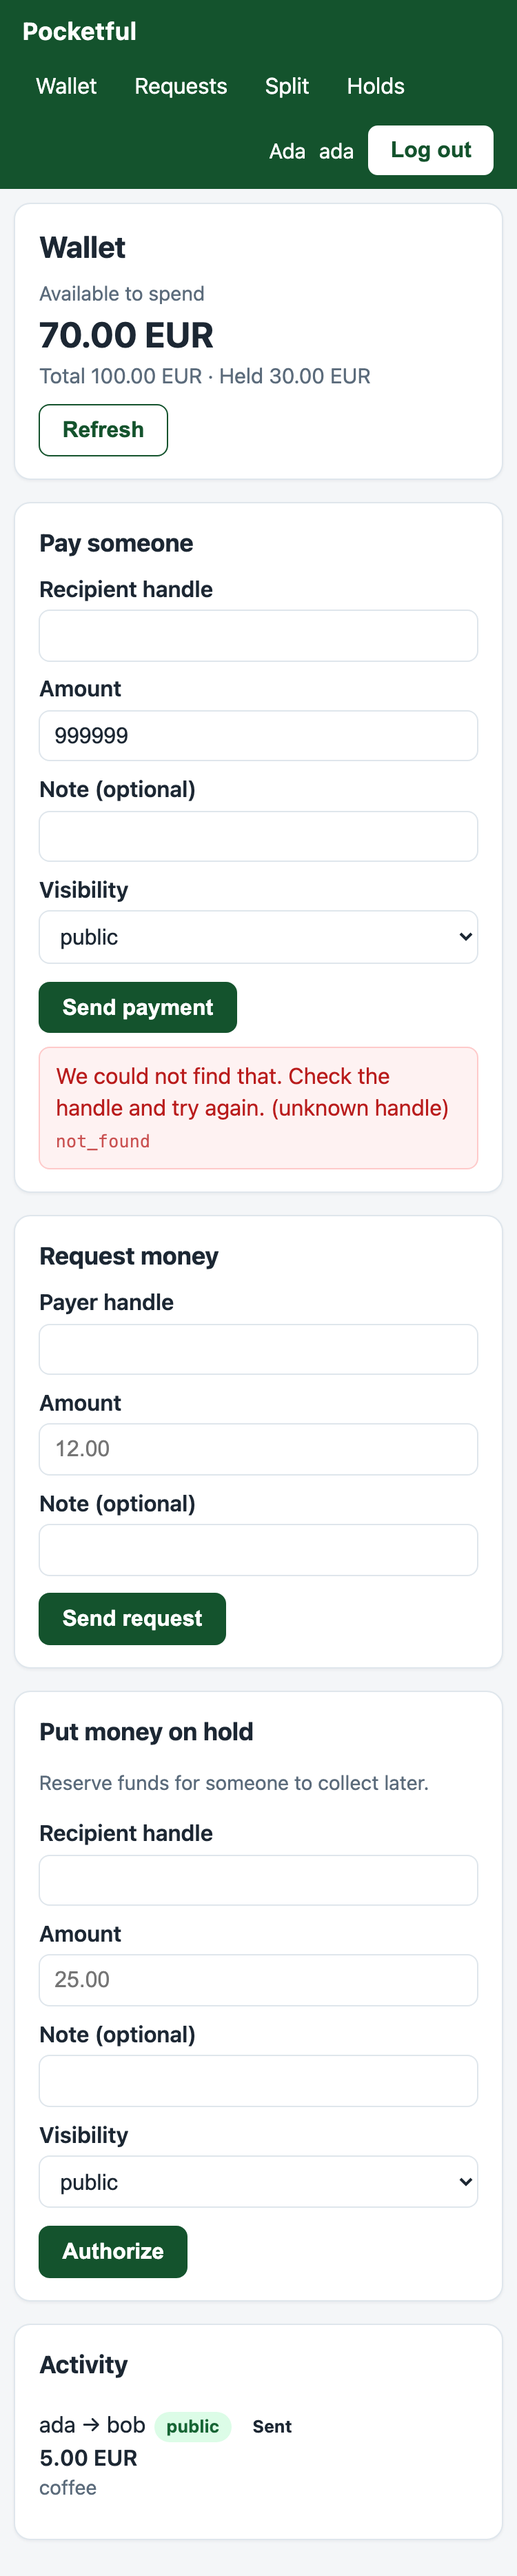
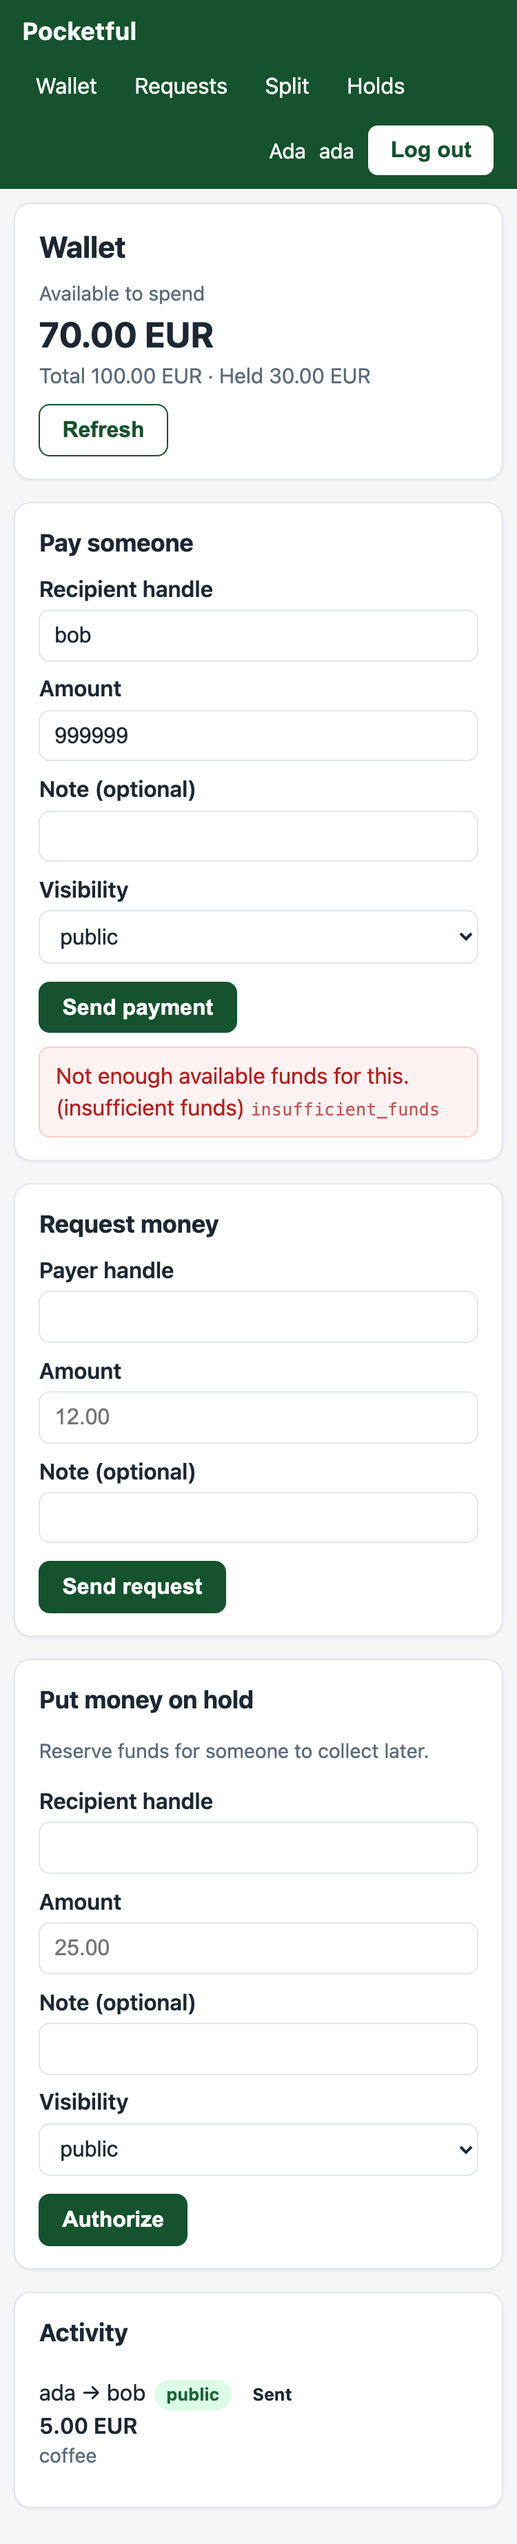
pocketful-factory: the screenshots were asserting things they did not show
Fifteen distinct pictures now, every one referenced by name from the README, and
three of them backed by an assertion rather than by somebody's word.

Two were lying. `refused` filled the amount and left the handle empty, so the
server refused the handle lookup: the file claimed a refused payment while showing
not_found, and the "the balance did not move" reading passed without anything having
been attempted. It now sends a real handle for more than Ada has, reads the balance
from the server on both sides, and fails if it moved -- so that picture is what its
name says. The handle case it was actually showing is kept, as unknown-handle,
because it is the evidence for the error-banner fix FACTORY.md cites.

`requests-after-decline` reloaded the page, discarded the state it was named for,
and came out byte-identical to the plain requests screenshot. The invariant it was
reaching for is real and checkable: the UI derives its idempotency key from the
request body, so the same payment submitted twice must move the money once. That is
now `replayed`, asserting the balance moved exactly 777 minor units and the feed
holds exactly one entry.

Re-seeding per width, because a fresh context derives a fresh key and the second
width was shooting a server the first had already moved -- the assertion caught it
on the first run.

The submit checklist's three falsified items are corrected: the export is checked
[…]

diff --git a/tools/shoot_ui.py b/tools/shoot_ui.py
@@ -160,19 +160,33 @@ def main(argv=None) -> int:
         return 2
 
     print(f"seeding the published fixture on {base}")
-    call(base, "POST", "/_test/reset", FIXTURE)
-    ada, bob = login(base, "ada@example.com"), login(base, "bob@example.com")
 
-    # A hold, so "available" is a smaller number than "total" and the secondary
-    # hierarchy the spec asks for is actually on screen. The field is `to_handle`,
-    # not `to_user_id`: the specification addresses the payee by handle.
-    status, body = call(base, "POST", "/authorizations",
-                        {"to_handle": "bob", "amount": 3000}, token=ada, key="shoot-auth-1")
-    if status not in (200, 201):
-        print(f"warning: the hold was refused ({status} {body}); the available/total "
-              f"hierarchy will not be on screen", file=sys.stderr)
-    # A declined request, so the refused state has something to show.
-    call(base, "POST", "/requests/rq_1/decline", {}, token=ada, key="shoot-decl-1")
+    def reseed(label: str) -> None:
+        """Put the fixture back, so every width starts from the same state.
+
+        This ran once, before the loop, and the second width then shot a server the first
+        width had already moved: the replay assertion failed on mobile with the payment in
+        the feed twice. The cause is the harness rather than the service -- a fresh browser
+        context derives a fresh idempotency key from the same body, so the server is right
+        to treat the second submit as a new payment. Re-seeding per width also makes the
+        two sets of screenshots comparable, which is the only reason to shoot both.
+        """
+        call(base, "POST", "/_test/reset", FIXTURE)
+        a = login(base, "ada@example.com")
+        # A hold, so "available" is a smaller number than "total" and the secondary
+        # hierarchy the spec asks for is actually on screen. The field is `to_handle`,
+        # not `to_user_id`: the specification addresses the payee by handle.
+        status, body = call(base, "POST", "/authorizations",
+                            {"to_handle": "bob", "amount": 3000}, token=a,
+                            key=f"shoot-auth-{label}")
+        if status not in (200, 201):
+            print(f"warning: the hold was refused ({status} {body}); the available/total "
+                  f"hierarchy will not be on screen", file=sys.stderr)
+        # A declined request, so the refused state has something to show.
+        call(base, "POST", "/requests/rq_1/decline", {}, token=a, key=f"shoot-decl-{label}")
+        return a
+
+    reseed("warmup")
 
     try:
         from playwright.sync_api import sync_playwright
@@ -187,6 +201,7 @@ def main(argv=None) -> int:
     with sync_playwright() as p:
         browser = p.chromium.launch()
         for label, size in (("desktop", DESKTOP), ("mobile", MOBILE)):
+            reseed(label)
             ctx = browser.new_context(viewport=size, device_scale_factor=2)
             page = ctx.new_page()
 
@@ -206,28 +221,88 @@ def main(argv=None) -> int:
                 shots.append(str(path))
                 report(f"{label} {route}", page, findings)
 
-            # Refused: pay more than Ada has available.
+            # Refused: pay more than Ada has available. The claim this screenshot exists to
+            # support is not "an error appeared" -- it is "the balance did not move", so the
+            # balance is read before and after and a refusal that moved it is a finding.
             page.goto(f"{base}/")
             page.wait_for_selector('[data-testid=current-user]')
-            amount = page.query_selector('[data-testid=pay-amount]')
-            if amount:
-                amount.fill("999999")
-                submit = page.query_selector('[data-testid=pay-submit]')
-                if submit:
-                    submit.click()
-                    page.wait_for_timeout(900)
-                    path = out / f"{label}-refused.png"
-                    page.screenshot(path=str(path), full_page=True)
-                    shots.append(str(path))
-                    report(f"{label} refused", page, findings)
 
-            # Uncertain: an idempotency key sent twice, which the spec requires the UI to
-            # surface as recoverable rather than as a failure.
-            page.goto(f"{base}/requests")
-            page.wait_for_load_state("networkidle")
-            path = out / f"{label}-requests-after-decline.png"
+            def balance() -> int | None:
+                return page.evaluate(
+                    "async () => (await (await fetch('/me', {headers:"
+                    "{Authorization:'Bearer '+localStorage.getItem('pf_token')}}))"
+                    ".json()).balance")
+
+            # A handle nobody has. This one is named for what it shows: the sentence a
+            # person reads first, with the server's code small and after it. It used to be
+            # filed as `refused`, which was wrong -- an empty handle field is refused by
+            # the handle lookup, not by the funds check, so the file claimed a payment
+            # refusal while showing `not_found`, and the "the balance did not move" check
+            # passed without anything having been attempted.
+            page.fill('[data-testid=pay-handle]', "nobody-here")
+            page.fill('[data-testid=pay-amount]', "5.00")
+            page.click('[data-testid=pay-submit]')
+            page.wait_for_timeout(900)
+            path = out / f"{label}-unknown-handle.png"
             page.screenshot(path=str(path), full_page=True)
             shots.append(str(path))
+            report(f"{label} unknown handle", page, findings)
+
+            # Refused for money: a real handle, and more than Ada has. The claim this
+            # screenshot exists to support is not "an error appeared" -- it is "the balance
+            # did not move", so the balance is read from the server on both sides of the
+            # attempt and a refusal that moved it is a finding.
+            before = balance()
+            page.fill('[data-testid=pay-handle]', "bob")
+            page.fill('[data-testid=pay-amount]', "999999")
+            page.click('[data-testid=pay-submit]')
+            page.wait_for_timeout(900)
+            path = out / f"{label}-refused.png"
+            page.screenshot(path=str(path), full_page=True)
+            shots.append(str(path))
+            report(f"{label} refused for funds", page, findings)
+            after = balance()
+            if before is not None and after != before:
+                findings.append(
+                    f"{label} refused a payment for funds but the balance moved: "
+                    f"{before} -> {after}")
+
+            # The same payment submitted twice. The specification says two clicks move the
+            # money once, and the UI derives its idempotency key from the request body, so
+            # an identical second submit is the replay. This replaced a shot named
+            # `requests-after-decline`, which called `page.goto` and therefore reloaded the
+            # page: it threw away the state it was named for and came out byte-identical to
+            # the plain requests screenshot.
+            #
+            # What is asserted is the invariant, not the pixels: one entry in the feed for
+            # that note, and the balance down by exactly one payment.
+            page.goto(f"{base}/")
+            page.wait_for_selector('[data-testid=current-user]')
+            start = balance()
+            page.fill('[data-testid=pay-handle]', "bob")
+            page.fill('[data-testid=pay-amount]', "7.77")
+            page.fill('[data-testid=pay-note]', "replayed")
+            page.click('[data-testid=pay-submit]')
+            page.wait_for_timeout(800)
+            page.click('[data-testid=pay-submit]')
+            page.wait_for_timeout(900)
+            moved = balance()
+            if start is not None and moved is not None:
+                if start - moved != 777:
+                    findings.append(
+                        f"{label} submitted one payment twice but the balance moved "
+                        f"{start - moved} minor units, want 777")
+            listed = page.evaluate(
+                "() => [...document.querySelectorAll("
+                "'[data-testid^=activity-note-]')].filter("
+                "e => e.textContent.trim() === 'replayed').length")
+            if listed != 1:
+                findings.append(
+                    f"{label} replayed payment appears {listed} times in the feed, want 1")
+            path = out / f"{label}-replayed.png"
+            page.screenshot(path=str(path), full_page=True)
+            shots.append(str(path))
+            report(f"{label} replayed", page, findings)
             ctx.close()
 
         # The signed-out screens, in their own context so no token is present.

diff --git a/README.md b/README.md
@@ -137,11 +137,28 @@ looking at anything. So it is checked by looking at it:
 | ![The wallet screen, signed in, with a hold on part of the balance](docs/screenshots/desktop-home.png) | ![The same screen at 375 pixels](docs/screenshots/mobile-home.png) |
 | Available funds are the largest value on the page and total and held are secondary — the hierarchy the specification asks for once holds exist | The same at a 375 CSS-pixel viewport, with no horizontal scrolling |
 
-More in [`docs/screenshots/`](docs/screenshots/): the requests list, the split form, a
-refused payment, the login error, signup, and both widths of each. `tools/shoot_ui.py`
-re-takes all of them and, while it is there, measures what a screenshot cannot show —
-whether anything overflows horizontally, whether every input has a label, and whether
-every control a keyboard reaches has a visible focus ring:
+More in [`docs/screenshots/`](docs/screenshots/), fifteen of them and every one distinct:
+
+| | desktop | 375px |
+|---|---|---|
+| the wallet, a hold on part of the balance | [`desktop-home.png`](docs/screenshots/desktop-home.png) | [`mobile-home.png`](docs/screenshots/mobile-home.png) |
+| **a payment refused for funds — and the balance did not move** | [`desktop-refused.png`](docs/screenshots/desktop-refused.png) | [`mobile-refused.png`](docs/screenshots/mobile-refused.png) |
+| **the same payment submitted twice — one entry in the feed, money moved once** | [`desktop-replayed.png`](docs/screenshots/desktop-replayed.png) | [`mobile-replayed.png`](docs/screenshots/mobile-replayed.png) |
+| a handle nobody has: the sentence a person reads, then the server's code | [`desktop-unknown-handle.png`](docs/screenshots/desktop-unknown-handle.png) | [`mobile-unknown-handle.png`](docs/screenshots/mobile-unknown-handle.png) |
+| the requests list | [`desktop-requests.png`](docs/screenshots/desktop-requests.png) | [`mobile-requests.png`](docs/screenshots/mobile-requests.png) |
+| the split form | [`desktop-split.png`](docs/screenshots/desktop-split.png) | [`mobile-split.png`](docs/screenshots/mobile-split.png) |
+
+Plus the signed-out screens: [`desktop-login.png`](docs/screenshots/desktop-login.png),
+[`desktop-signup.png`](docs/screenshots/desktop-signup.png) and
+[`desktop-login-error.png`](docs/screenshots/desktop-login-error.png).
+
+The three bolded rows are the ones that assert something rather than illustrate it.
+`tools/shoot_ui.py` reads the balance from the server on both sides of the refused payment
+and fails if it moved, and it counts the feed entries for the replayed payment and fails
+unless there is exactly one — so those two pictures are backed by a check, not by a
+person's word. It also re-takes all fifteen and, while it is there, measures what a
+screenshot cannot show: whether anything overflows horizontally, whether every input has a
+label, and whether every control a keyboard reaches has a visible focus ring.
 
 ```bash
 cd stage-4 && PORT=8080 python3 -m src.app &
@@ -153,7 +170,17 @@ server's error code — `not_found` — to somebody who had typed a handle that 
 exist. The specification asks for people first and technical identifiers "only where they
 help the user", so the banner now leads with a sentence and carries the code in small
 muted type beside it: a person reads what happened, and someone reporting the problem can
-quote the code instead of describing a screenshot.
+quote the code instead of describing a screenshot. `desktop-unknown-handle.png` is that
+banner.
+
+Running it also found two faults in this file's own output, which is the argument for
+having assertions in it rather than a camera. The shot called `refused` was filling the
+amount and leaving the handle empty, so the server refused the *handle lookup* and the
+picture showed `not_found` while claiming to show a refused payment — and the "the balance
+did not move" reading passed without anything having been attempted. And a shot called
+`requests-after-decline` reloaded the page, threw away the state it was named for, and came
+out byte-identical to the plain requests screenshot. Both are fixed above, and the
+fixtures are re-seeded per width so the two sets are comparable.
 
 ## Standing the factory up
 

diff --git a/docs/SUBMIT_CHECKLIST.md b/docs/SUBMIT_CHECKLIST.md
@@ -22,32 +22,47 @@ A checklist, in the order the failures actually happen. Each step names the thin
 
 ## The room
 
-- [ ] `room.json` is a **full session** download, not a filtered one, saved unchanged.
+- [ ] `room.json` **reaches the end of the room**: it carries the message that locks stage 4.
+      Not "the scope field says full" -- the exporter writes that string itself, so checking
+      it only proves the exporter is self-consistent. This export once stopped two hours
+      early, five seconds after the architect flagged a verdict issued against the wrong
+      revision, and the acceptance and the lock that ended the run were both missing from
+      the file. `verify_claims.py` fails on an export that does not reach the end, so this
+      is checked rather than remembered.
 - [ ] Two of your own seats exchanged `@handle` messages in both directions. The judge reads this
       out of the file; confirm it is really there rather than assuming it.
 - [ ] No seat posted a filler message. `Standing by`, `Noted`, `Acknowledged`, `Quiet`,
       `Holding`, `Waiting` — one of those in the log costs more than a quiet room would have.
-- [ ] The work is **distributed**. One seat carrying 90% of it reads the same however many
-      messages it sent.
+- [ ] The work is **distributed**. One seat carrying the great majority of it reads the same
+      however many messages it sent; here the split is 28/13/11, so the architect is at 54%.
 - [ ] Every revision the room mentions has a commit. Code with no discussion behind it is code
       the band did not write.
+- [ ] `room.json` is the **last** download, taken after the last thing the band did. Re-export
+      with `band-agents/fetch_room.py`, not by hand.
 
 ## The documents
 
 - [ ] `README.md` and `FACTORY.md` are written, not placeholders.
 - [ ] Every number in `FACTORY.md` can be traced to the room log, the git history or the harness
       report. Check them; a document that overstates is worse than one that admits a gap.
+- [ ] `python3 verify_claims.py` passes, and it passes **after** you break it on purpose. Put
+      the stage count back, invent a rejection, and check that it fails. A checker that has
+      never been shown a lie is not known to work.
 - [ ] Every mandate could be pointed at a different problem. Any endpoint path, field name,
       error code or check id disqualifies the entry.
-- [ ] `room.json` is the last download, so it holds the whole collaboration.
 
 ## The presentation
 
 - [ ] The video shows **the factory working**: the room, a handoff between seats, and the result
       it produced. A slideshow about the factory is not the factory.
-- [ ] The video contains a moment where the reviewer found something wrong. Correct work
-      accepted first time loses nothing, but a run where nothing was ever caught shows a veto
-      that was never exercised.
+- [ ] The video contains the **BAND Desktop room** recording. This is a hard disqualifier, not a
+      scoring item: the event states a video without it disqualifies the team. It has to be the
+      app, not `app.band.ai` in a browser, and it has to be long enough to read.
+- [ ] The video shows the reviewer finding something the shipped checks never asked for — and it
+      says plainly what form that took. In this run it reported six findings attached to
+      acceptances and never vetoed, so the honest shot is a verdict carrying numbers, plus the
+      sentence that the veto is untested. A video claiming a veto that the log does not contain
+      is worse than one that admits the gap.
 - [ ] The presentation covers the factory design, what it cost, a bad result it caught, and the
       stage it reached.
 - [ ] Submit the repository URL, the presentation and the video, then keep the receipt.
